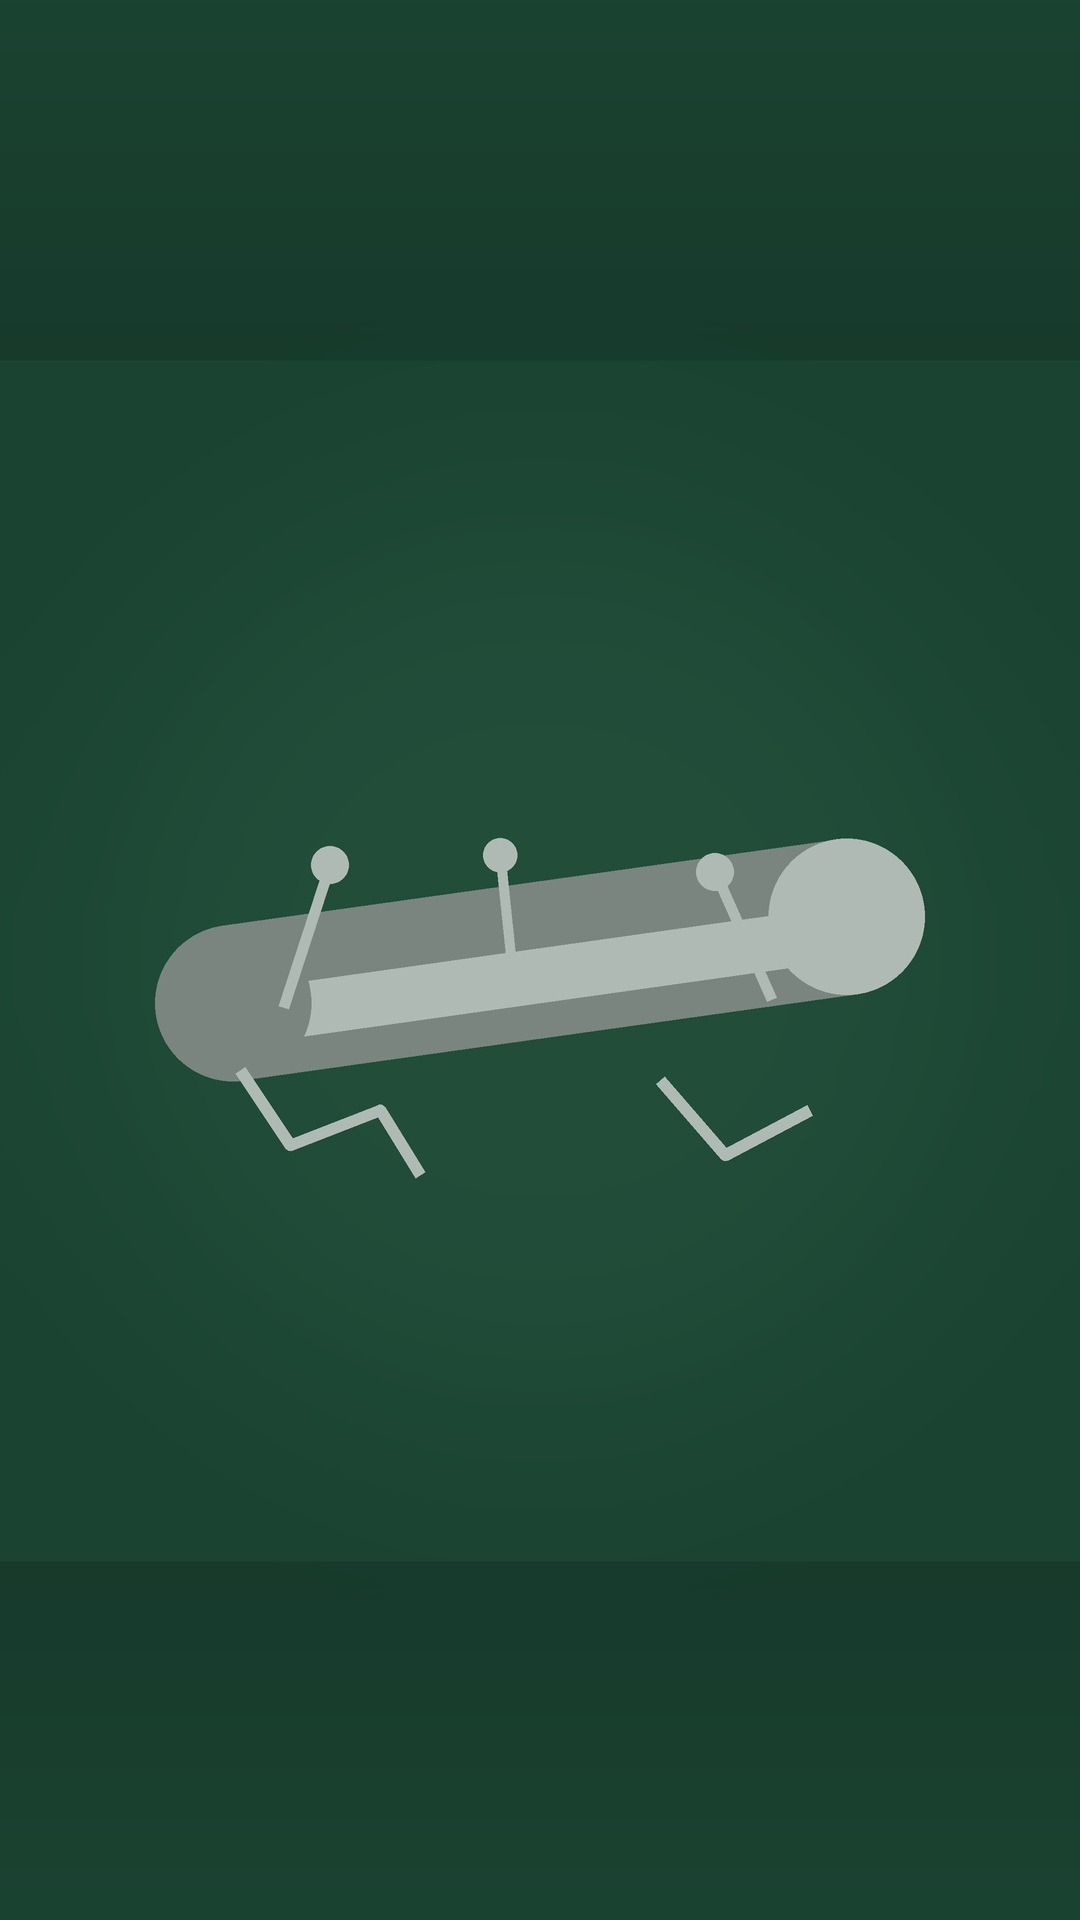
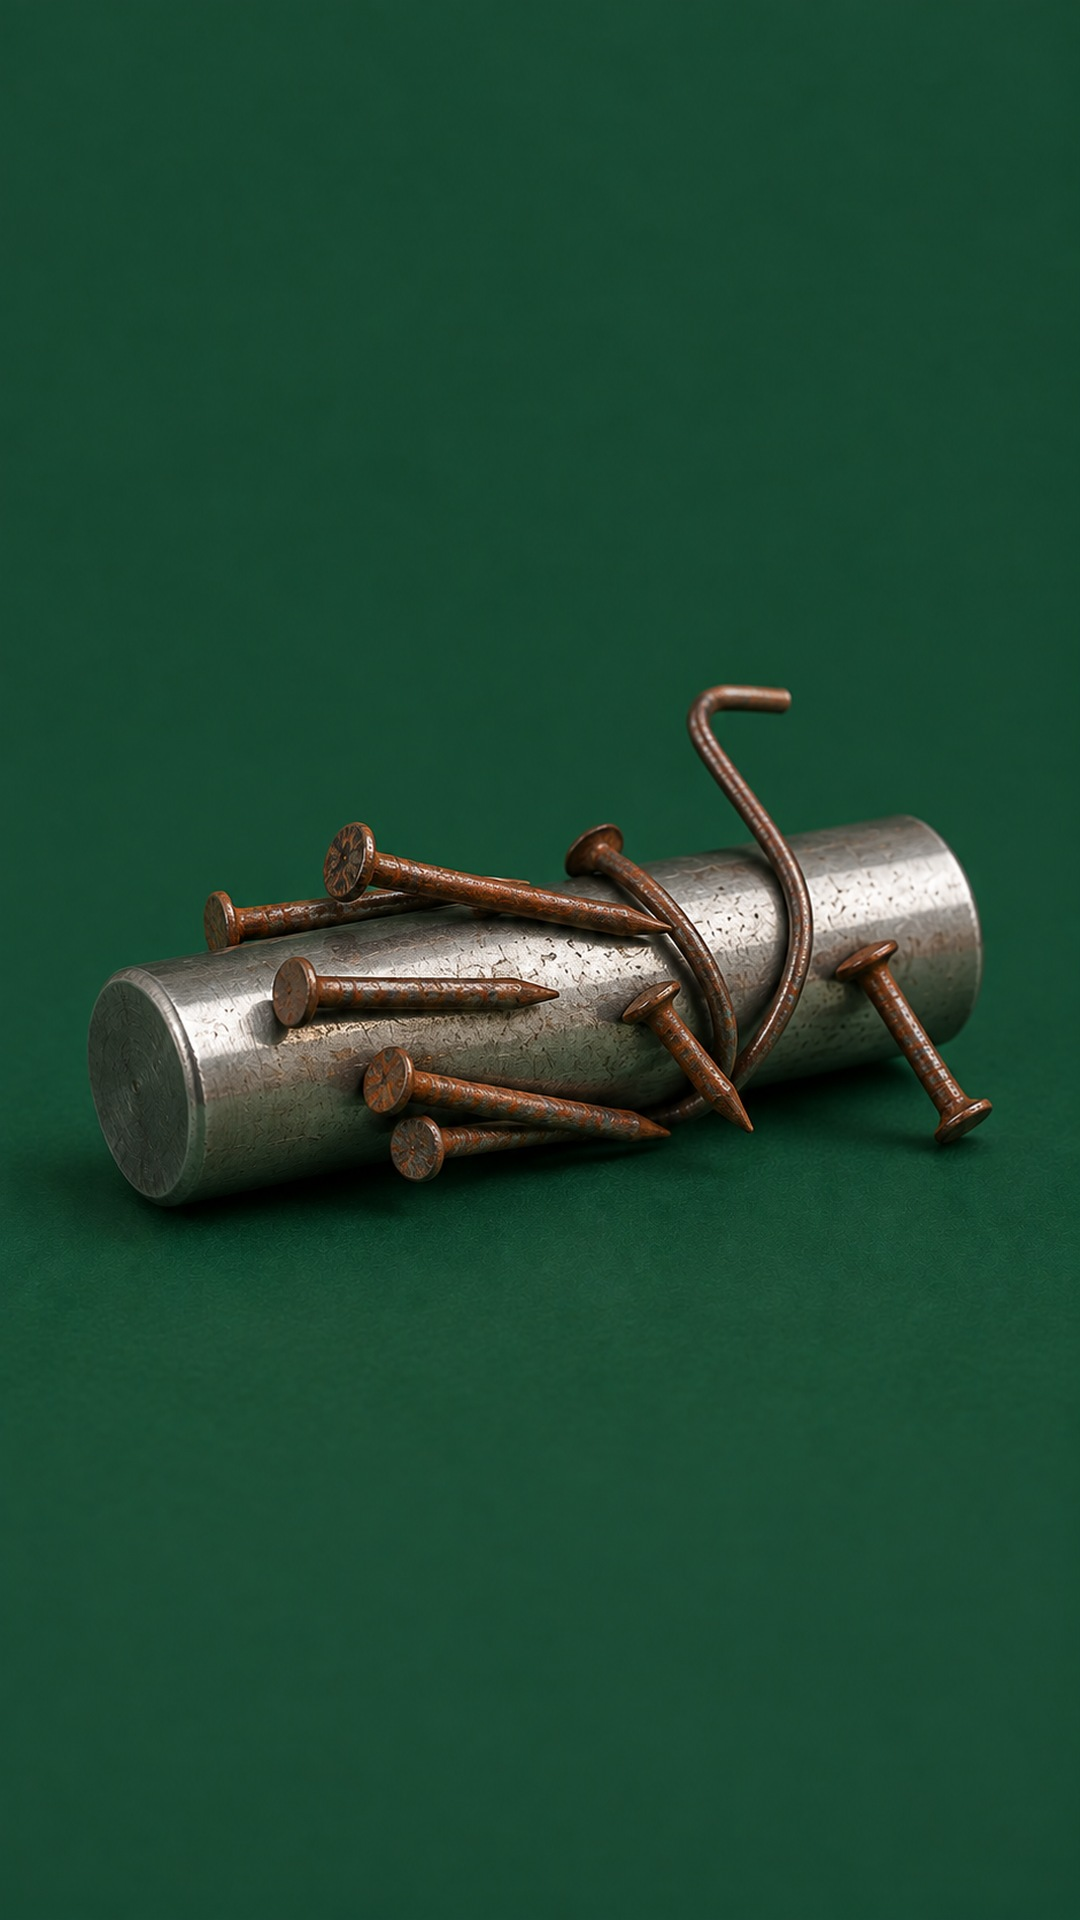
s020の図解3枚を生成版に差し替え、テロップ位置の指定を修正
指摘した3点がすべて直った差し替え版を反映:
- ②と④で磁石の見た目が揃った(どちらも無地のアルニコ円筒)
- ③から胃を削除。④との胃の数の矛盾が解消し、③が振り・④が受けになった
- ④の第二胃に網目(蜂の巣状)の内壁が入り、「網胃」の名前の由来が絵で分かるようになった
- 釘が磁石の表面に吸着する描写になった(刺さって見える問題の解消)
- ③の食道が肉色になり、黄色は内容物と進行方向の表現に変わった

あわせて判明したこと:
- 実物のカウマグネットは長さ8-10cm・直径1.3cm程度の無地のアルニコ円筒で、
  端が丸く、赤青の塗り分けはない。初稿は理科の実験用棒磁石になっていた。
  ナレーションが「専用の磁石」と言っているため、言葉と絵が食い違っていた
- 生成した図解は被写体が画面中央(40-75%)を占めるため、docs/03 の
  「テロップは中央よりやや上」だと図に重なる。明度で占有率を実測し、
  62-78%の帯に下げる指定を追加した

assets/s020/draw3.py (Pillowの自作図解) は不要になったため削除。

Claude-Session: https://claude.ai/code/session_01Ce6Dpth5zcxGGuzjS7zMLT

Changed region(s): [[0.0611, 0.3438, 0.9167, 0.6562]]

diff --git a/assets/s020/README.md b/assets/s020/README.md
@@ -4,13 +4,11 @@
 
 | ファイル | 用途 | 秒 | 出どころ |
 |---|---|---:|---|
-| `f1.jpg` | 牛 | 2.88 | Pexels / Gizem Gökce（**クレジット必須**） |
-| `f2.jpg` | 牛用磁石 | 3.84 | 自作図解 |
-| `f3.jpg` | 草ごと金属を飲み込む | 12.48 | 自作図解 |
-| `f4.jpg` | 第二胃に磁石が留まる | 6.72 | 自作図解 |
-| `f5.jpg` | 牛 | 2.88 | Pexels / Los Muertos Crew（**クレジット必須**） |
-
-図解は `draw3.py`（Pillow）で生成。数値を変えれば描き直せる。
+| `f1.jpg` | 牛 | 2.88 | Pexels / Ninety Seven Years（**クレジット必須**） |
+| `f2.jpg` | 牛用磁石 | 3.84 | 生成AI（ChatGPT）／プロンプトは `image-prompts.md` |
+| `f3.jpg` | 草ごと金属を飲み込む | 12.48 | 同上 |
+| `f4.jpg` | 第二胃に磁石が留まる | 6.72 | 同上 |
+| `f5.jpg` | 牛 | 2.88 | Pexels / Doğan Alpaslan Demir（**クレジット必須**） |
 
 ## 組み立て
 
@@ -21,7 +19,19 @@ ffmpeg -f concat -safe 0 -i list.txt \
 
 出力：1080×1920 / 30fps / 28.83秒 / 音声なし
 
+## テロップを乗せる位置
+
+生成した図は**被写体が画面中央に来ている**ため、`docs/03` の「中央よりやや上」に置くと図に重なる。
+明度で被写体の占有率を測った結果：
+
+| | 上15%（UI帯） | 中央40–62% | 下20%（UI帯） |
+|---|---:|---:|---:|
+| f2 磁石 | 0% | 40% | 0% |
+| f3 飲み込み | 1% | 58% | 4% |
+| f4 胃 | 0% | 75% | 0% |
+
+→ **テロップは画面の 62〜78% の帯に置く。** 下20%のUI帯は避けつつ、図の下の余白を使う。
+
 ## 積み残し
 
-- **③が12.48秒。1枚で持たせるには長すぎる。** 実制作では2〜3カットに割る
-- 図解は仮。牛のシルエットと胃の形は作り直す余地がある
+- **③が12.48秒。静止画1枚で持たせるには長すぎる。** 実制作では2〜3カットに割る

diff --git a/docs/03-shorts-format.md b/docs/03-shorts-format.md
@@ -138,6 +138,10 @@ D と C が最も強い。**迷ったら D か C にする。**
 ### 表示ルール
 
 - **1画面あたり 7〜12字 × 最大2行。** 超えたら分割する。改行位置は機械的にこの字数で決めてよい
+- **縦位置は素材に合わせる。** 上の図は「中央やや上」を標準としているが、
+  図解の被写体が画面中央に来る場合は**62〜78%の帯に下げる**。
+  s020 で実測したところ、生成した図解は中央40〜75%を被写体が占めていた（→ [`assets/s020/README.md`](../assets/s020/README.md)）。
+  **素材を作ったら、被写体の位置を見てからテロップの高さを決めること。**
 - **切り替えはナレーションと同時。先出ししない。**
   読む速度は聞く速度より速いので、先に出すと答えがバレる
 - **強調語だけアクセント黄。** 台本の「強調語」列がそれ。1画面に1語まで
